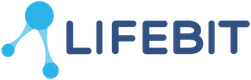
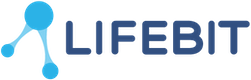
get images to show up nicely on retina displays

diff --git a/src/vendors/retina.min.js b/src/vendors/retina.min.js
@@ -1,0 +1,10 @@
+/*!
+ * Retina.js v1.3.0
+ *
+ * Copyright 2014 Imulus, LLC
+ * Released under the MIT license
+ *
+ * Retina.js is an open source script that makes it easy to serve
+ * high-resolution images to devices with retina displays.
+ */
+!function(){function a(){}function b(a){return f.retinaImageSuffix+a}function c(a,c){if(this.path=a||"","undefined"!=typeof c&&null!==c)this.at_2x_path=c,this.perform_check=!1;else{if(void 0!==document.createElement){var d=document.createElement("a");d.href=this.path,d.pathname=d.pathname.replace(g,b),this.at_2x_path=d.href}else{var e=this.path.split("?");e[0]=e[0].replace(g,b),this.at_2x_path=e.join("?")}this.perform_check=!0}}function d(a){this.el=a,this.path=new c(this.el.getAttribute("src"),this.el.getAttribute("data-at2x"));var b=this;this.path.check_2x_variant(function(a){a&&b.swap()})}var e="undefined"==typeof exports?window:exports,f={retinaImageSuffix:"@2x",check_mime_type:!0,force_original_dimensions:!0};e.Retina=a,a.configure=function(a){null===a&&(a={});for(var b in a)a.hasOwnProperty(b)&&(f[b]=a[b])},a.init=function(a){null===a&&(a=e);var b=a.onload||function(){};a.onload=function(){var a,c,e=document.getElementsByTagName("img"),f=[];for(a=0;a<e.length;a+=1)c=e[a],c.getAttributeNode("data-no-retina")||f.push(new d(c));b()}},a.isRetina=function(){var a="(-webkit-min-device-pixel-ratio: 1.5), (min--moz-device-pixel-ratio: 1.5), (-o-min-device-pixel-ratio: 3/2), (min-resolution: 1.5dppx)";return e.devicePixelRatio>1?!0:e.matchMedia&&e.matchMedia(a).matches?!0:!1};var g=/\.\w+$/;e.RetinaImagePath=c,c.confirmed_paths=[],c.prototype.is_external=function(){return!(!this.path.match(/^https?\:/i)||this.path.match("//"+document.domain))},c.prototype.check_2x_variant=function(a){var b,d=this;return this.is_external()?a(!1):this.perform_check||"undefined"==typeof this.at_2x_path||null===this.at_2x_path?this.at_2x_path in c.confirmed_paths?a(!0):(b=new XMLHttpRequest,b.open("HEAD",this.at_2x_path),b.onreadystatechange=function(){if(4!==b.readyState)return a(!1);if(b.status>=200&&b.status<=399){if(f.check_mime_type){var e=b.getResponseHeader("Content-Type");if(null===e||!e.match(/^image/i))return a(!1)}return c.confirmed_paths.push(d.at_2x_path),a(!0)}return a(!1)},b.send(),void 0):a(!0)},e.RetinaImage=d,d.prototype.swap=function(a){function b(){c.el.complete?(f.force_original_dimensions&&(c.el.setAttribute("width",c.el.offsetWidth),c.el.setAttribute("height",c.el.offsetHeight)),c.el.setAttribute("src",a)):setTimeout(b,5)}"undefined"==typeof a&&(a=this.path.at_2x_path);var c=this;b()},a.isRetina()&&a.init(e)}();

diff --git a/src/index.html b/src/index.html
@@ -77,5 +77,8 @@
     <!-- Start of HubSpot Embed Code -->
     <script type="text/javascript" id="hs-script-loader" async defer src="//js.hs-scripts.com/4332244.js"></script>
     <!-- End of HubSpot Embed Code -->
+
+    <!-- for using high resolution images on retina displays -->
+    <script type="text/javascript" src="/src/vendors/retina.min.js"></script>
   </body>
 </html>
